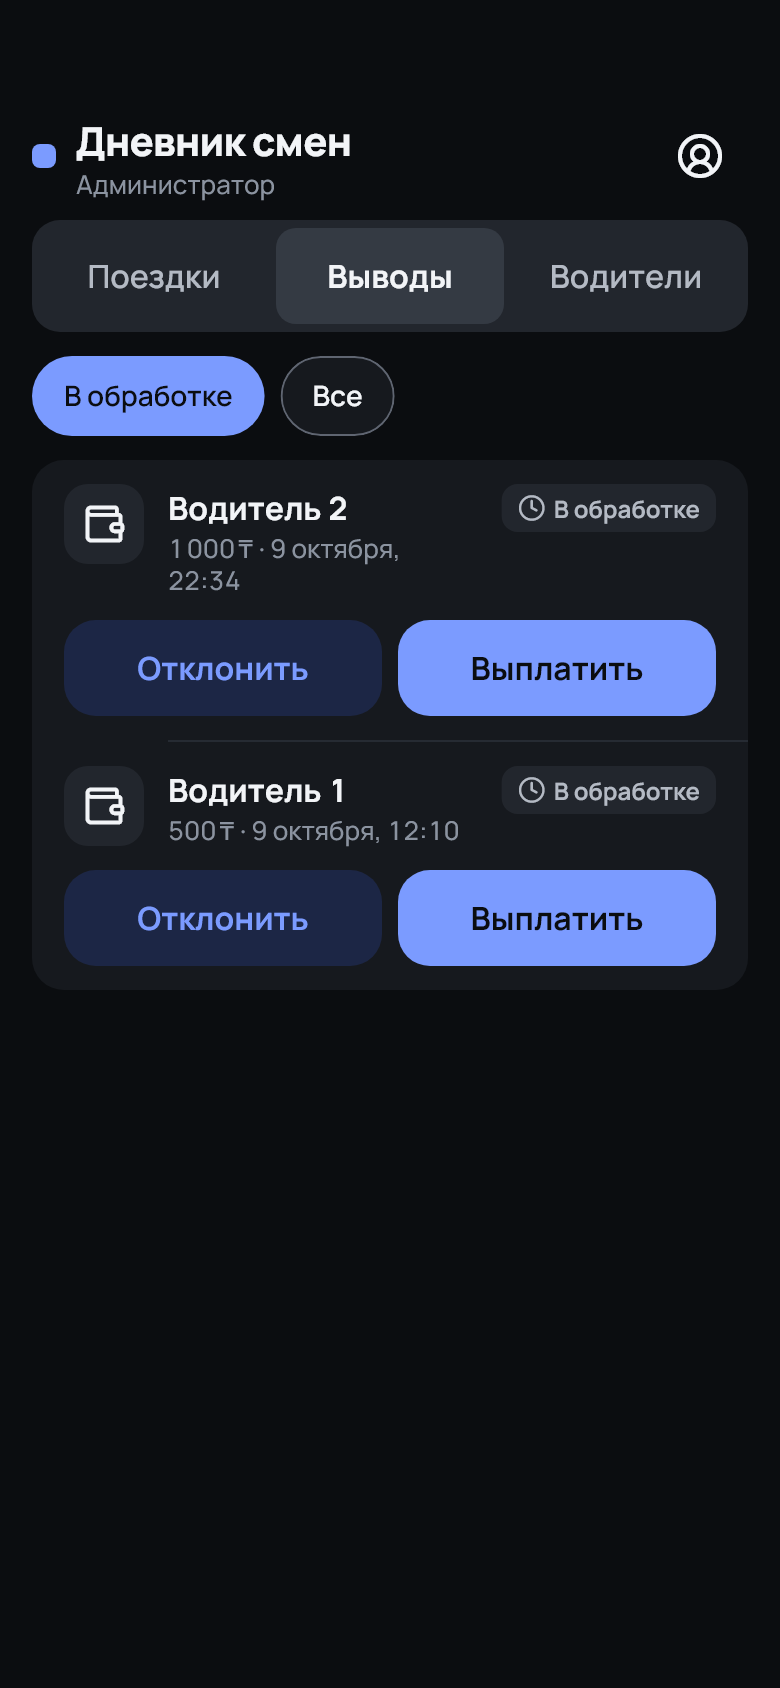
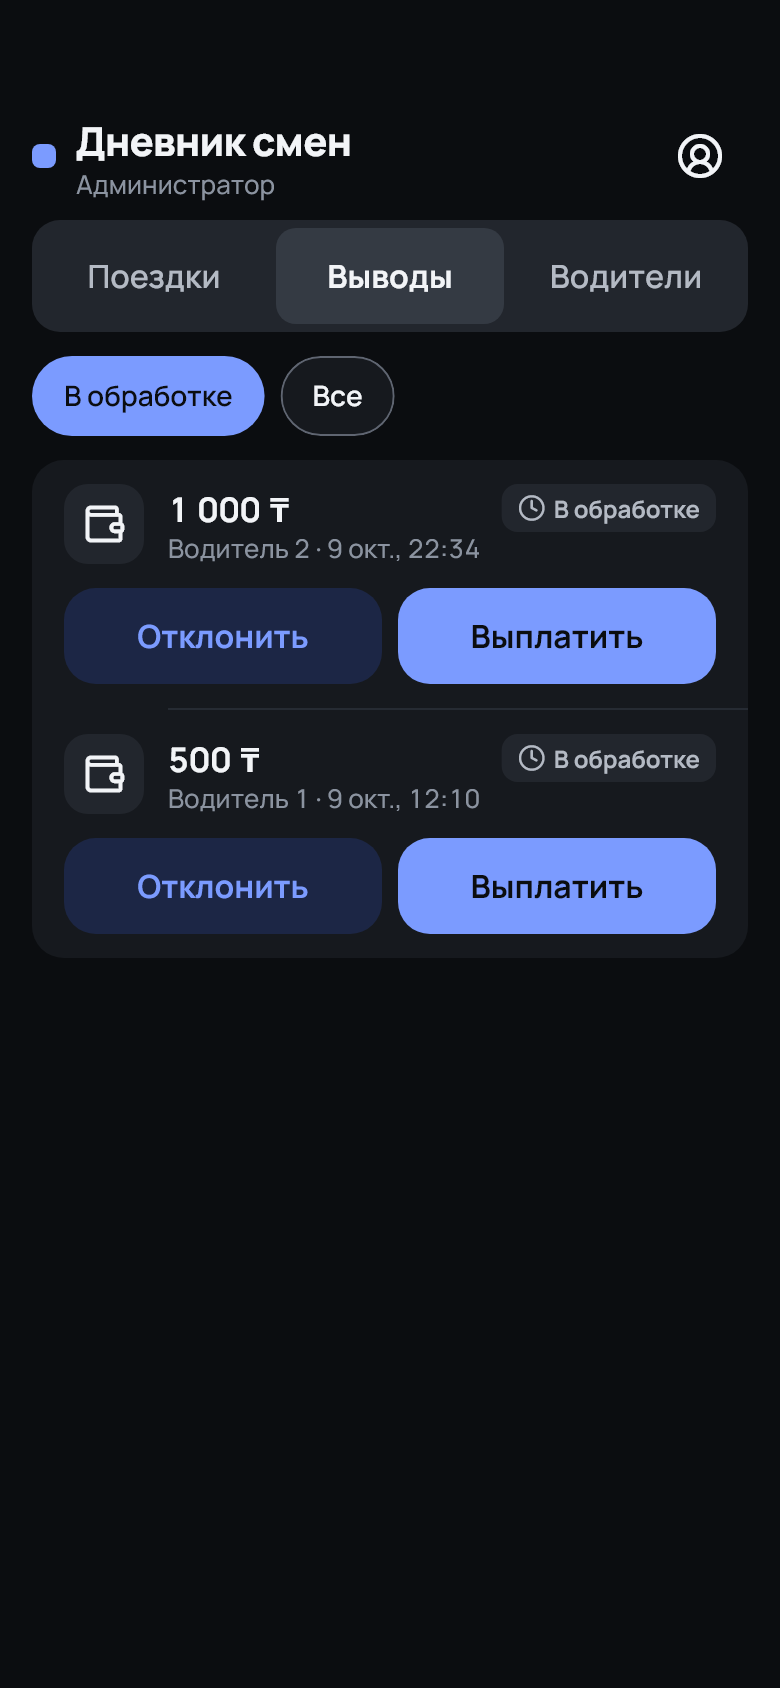
docs(design): §8.1 and §8.6 updates, refreshed admin screenshots

Changed region(s): [[0.0615, 0.2773, 0.9231, 0.5853]]

diff --git a/DESIGN.md b/DESIGN.md
@@ -457,7 +457,7 @@ Keep copy in one file (`core/l10n/strings_ru.dart` or ARB). No English strings i
 - DkFilterChips: horizontal scroll row of chips height 40 (tap area 48), radius pill, padding h 16; selected bg accent fg onAccent; unselected bg surface, border 1 border, fg textPrimary; label 14/600.
 
 ### 8.1 Login
-- bg `bg`, SafeArea, padding 16. Top-right: DkLanguageSwitch compact (width 200, height 48).
+- bg `bg`, SafeArea, padding 16. Top-right: DkLanguageSwitch (width 200, height **56** — approved: at 48 the segments would be 40, below the 48 dp tap target).
 - Centered block (max width 360): wordmark (accent square 16 + «Дневник смен» wordmark style), gap 32, title «Вход» titleL, gap 24, fields «Логин» (DkTextField, autofill username), gap 16 «Пароль» (DkPasswordField, autofill password), gap 24, DkButton primary expand «Войти» (loading «Входим…»).
 - Error: under the password field, error row «Неверный логин или пароль». Rate-limit: «Слишком много попыток. Попробуйте через 15 минут.» Offline: error snackbar «Нет связи. Проверьте интернет.»
 - Keyboard: Enter on login → focus password; Enter on password → submit.
@@ -496,8 +496,8 @@ Keep copy in one file (`core/l10n/strings_ru.dart` or ARB). No English strings i
 ### 8.6 Admin («Админка»)
 - Day-screen layout reused. Header: wordmark + caption «Администратор» + DkIconButton menu (Menu without «Вывод средств»).
 - Under the header: DkSegmentedControl with 3 segments: «Поездки» / «Выводы» / «Водители».
-- Поездки: DkFilterChips «Все водители», «Водитель 1», «Водитель 2» (from /admin/users) → DkDaySwitcher → summary card + payment card + trip list for the selection. In «Все водители» each trip row's meta line is «22 мин · Карта · Водитель 1». No FAB (admin does not create trips).
-- Выводы: DkFilterChips «В обработке», «Все»; list rows: driver name, amount, date, status chip; pending rows have two buttons under the row content: DkButton secondary «Отклонить» and primary «Выплатить» (each 48 high, side by side). Reject opens a dialog with a text field «Причина» (required). Approve → no dialog, button loading then row updates; success snackbar «Отмечено как выплачено».
+- Поездки: DkFilterChips «Все водители», «Водитель 1», «Водитель 2» (from /admin/users) → DkDaySwitcher → summary card + payment card + trip list for the selection. In «Все водители» each trip row keeps its meta line «22 мин · Карта» and gets the driver's name on its own **third line** (`caption`, textTertiary, one line, ellipsis) — same size in every row, never shrunk to fit (`DkTripTile(driver: …)`). No FAB (admin does not create trips).
+- Выводы: DkFilterChips «В обработке», «Все»; list rows (`DkWithdrawalTile(prominent: true)`): title = amount (`moneyM`, `DkMoneyText`), subtitle = «Водитель 2 · 9 окт., 22:34» (`caption`, one line), status chip on the right; no reject reason in the admin list, so every row's content block has the same height (and every row with buttons too) at 360 and 390 dp, text 1.0 — tested; pending rows have two buttons under the row content: DkButton secondary «Отклонить» and primary «Выплатить» (each 48 high, side by side). Reject opens a dialog with a text field «Причина» (required). Approve → no dialog, button loading then row updates; success snackbar «Отмечено как выплачено».
 - Водители: DkListGroup rows: display name, «@user_1», trailing balance moneyM; row tap → bottom sheet with actions: «Заблокировать» / «Разблокировать» (is_active), «Сбросить все сессии» (confirm dialog «Водитель выйдет на всех устройствах»).
 - Empty / error / loading states reuse DkEmptyState, DkErrorState, DkSkeleton.
 
@@ -513,8 +513,9 @@ Components live in `packages/design_kit/lib/src/components/dk_accounts.dart` unl
 | DkIconButton | `DkIconButton(icon, label, onPressed, active)` in `dk_chrome.dart`; icon 24 (`iconNav`); `active` draws the icon in `accent` (the sort button). |
 | DkListGroup + DkListRow | `DkListGroup(children)` inserts the inset-68 dividers; `DkListAttachment(child)` sits under the row above it without a divider (the language switch under «Язык»). `DkListRow(title, icon, subtitle, trailing, onTap, destructive)` — a chevron when tappable and no trailing. |
 | DkStatusChip | `DkStatusChip(kind: DkStatusKind.pending/paid/rejected, label)`. |
+| Money in any text | Every amount is built by `DkMoney.format` (U+202F before ₸ and between groups, U+2212 minus) and drawn by `DkMoneyText` / `DkGroupedText`, which widen the gap; a plain `Text` draws U+202F too narrow. Kit texts that can carry an amount (list rows, dialog title and message, snackbars, sheet titles, info line, withdrawal rows) render through `DkGroupedText`. `example/test/accounts_screens_test.dart` fails on any rendered «₸» without U+202F before it, a hyphen minus, or a narrow gap. |
 | DkPasswordField | `DkPasswordField(label, controller, showLabel, hideLabel, …)`; `DkTextField` gained `obscureText`, `autofillHints`, `onSubmitted`, and its `trailing` is now a separate semantics node (otherwise the eye button merged into the field and was unreachable for screen readers). |
-| DkLanguageSwitch | `DkLanguageSwitch(languages: [(code, name)], selected, onChanged)`. **Deviation (pending approval):** always 56 high, also on the login screen — a 48-high track (§8.1 "compact") leaves 40-high segments, below the 48 dp tap target of §1. The login switch keeps width 200. |
+| DkLanguageSwitch | `DkLanguageSwitch(languages: [(code, name)], selected, onChanged)`. **Approved deviation:** always 56 high, also on the login screen — a 48-high track (§8.1 "compact") leaves 40-high segments, below the 48 dp tap target of §1. The login switch keeps width 200. |
 | DkFilterChips | `DkFilterChips<T>(options: [(value, label)], selected, onChanged)`. |
 
 Also added for §8.3–8.6:

diff --git a/packages/design_kit/DESIGN.md b/packages/design_kit/DESIGN.md
@@ -457,7 +457,7 @@ Keep copy in one file (`core/l10n/strings_ru.dart` or ARB). No English strings i
 - DkFilterChips: horizontal scroll row of chips height 40 (tap area 48), radius pill, padding h 16; selected bg accent fg onAccent; unselected bg surface, border 1 border, fg textPrimary; label 14/600.
 
 ### 8.1 Login
-- bg `bg`, SafeArea, padding 16. Top-right: DkLanguageSwitch compact (width 200, height 48).
+- bg `bg`, SafeArea, padding 16. Top-right: DkLanguageSwitch (width 200, height **56** — approved: at 48 the segments would be 40, below the 48 dp tap target).
 - Centered block (max width 360): wordmark (accent square 16 + «Дневник смен» wordmark style), gap 32, title «Вход» titleL, gap 24, fields «Логин» (DkTextField, autofill username), gap 16 «Пароль» (DkPasswordField, autofill password), gap 24, DkButton primary expand «Войти» (loading «Входим…»).
 - Error: under the password field, error row «Неверный логин или пароль». Rate-limit: «Слишком много попыток. Попробуйте через 15 минут.» Offline: error snackbar «Нет связи. Проверьте интернет.»
 - Keyboard: Enter on login → focus password; Enter on password → submit.
@@ -496,8 +496,8 @@ Keep copy in one file (`core/l10n/strings_ru.dart` or ARB). No English strings i
 ### 8.6 Admin («Админка»)
 - Day-screen layout reused. Header: wordmark + caption «Администратор» + DkIconButton menu (Menu without «Вывод средств»).
 - Under the header: DkSegmentedControl with 3 segments: «Поездки» / «Выводы» / «Водители».
-- Поездки: DkFilterChips «Все водители», «Водитель 1», «Водитель 2» (from /admin/users) → DkDaySwitcher → summary card + payment card + trip list for the selection. In «Все водители» each trip row's meta line is «22 мин · Карта · Водитель 1». No FAB (admin does not create trips).
-- Выводы: DkFilterChips «В обработке», «Все»; list rows: driver name, amount, date, status chip; pending rows have two buttons under the row content: DkButton secondary «Отклонить» and primary «Выплатить» (each 48 high, side by side). Reject opens a dialog with a text field «Причина» (required). Approve → no dialog, button loading then row updates; success snackbar «Отмечено как выплачено».
+- Поездки: DkFilterChips «Все водители», «Водитель 1», «Водитель 2» (from /admin/users) → DkDaySwitcher → summary card + payment card + trip list for the selection. In «Все водители» each trip row keeps its meta line «22 мин · Карта» and gets the driver's name on its own **third line** (`caption`, textTertiary, one line, ellipsis) — same size in every row, never shrunk to fit (`DkTripTile(driver: …)`). No FAB (admin does not create trips).
+- Выводы: DkFilterChips «В обработке», «Все»; list rows (`DkWithdrawalTile(prominent: true)`): title = amount (`moneyM`, `DkMoneyText`), subtitle = «Водитель 2 · 9 окт., 22:34» (`caption`, one line), status chip on the right; no reject reason in the admin list, so every row's content block has the same height (and every row with buttons too) at 360 and 390 dp, text 1.0 — tested; pending rows have two buttons under the row content: DkButton secondary «Отклонить» and primary «Выплатить» (each 48 high, side by side). Reject opens a dialog with a text field «Причина» (required). Approve → no dialog, button loading then row updates; success snackbar «Отмечено как выплачено».
 - Водители: DkListGroup rows: display name, «@user_1», trailing balance moneyM; row tap → bottom sheet with actions: «Заблокировать» / «Разблокировать» (is_active), «Сбросить все сессии» (confirm dialog «Водитель выйдет на всех устройствах»).
 - Empty / error / loading states reuse DkEmptyState, DkErrorState, DkSkeleton.
 
@@ -513,8 +513,9 @@ Components live in `packages/design_kit/lib/src/components/dk_accounts.dart` unl
 | DkIconButton | `DkIconButton(icon, label, onPressed, active)` in `dk_chrome.dart`; icon 24 (`iconNav`); `active` draws the icon in `accent` (the sort button). |
 | DkListGroup + DkListRow | `DkListGroup(children)` inserts the inset-68 dividers; `DkListAttachment(child)` sits under the row above it without a divider (the language switch under «Язык»). `DkListRow(title, icon, subtitle, trailing, onTap, destructive)` — a chevron when tappable and no trailing. |
 | DkStatusChip | `DkStatusChip(kind: DkStatusKind.pending/paid/rejected, label)`. |
+| Money in any text | Every amount is built by `DkMoney.format` (U+202F before ₸ and between groups, U+2212 minus) and drawn by `DkMoneyText` / `DkGroupedText`, which widen the gap; a plain `Text` draws U+202F too narrow. Kit texts that can carry an amount (list rows, dialog title and message, snackbars, sheet titles, info line, withdrawal rows) render through `DkGroupedText`. `example/test/accounts_screens_test.dart` fails on any rendered «₸» without U+202F before it, a hyphen minus, or a narrow gap. |
 | DkPasswordField | `DkPasswordField(label, controller, showLabel, hideLabel, …)`; `DkTextField` gained `obscureText`, `autofillHints`, `onSubmitted`, and its `trailing` is now a separate semantics node (otherwise the eye button merged into the field and was unreachable for screen readers). |
-| DkLanguageSwitch | `DkLanguageSwitch(languages: [(code, name)], selected, onChanged)`. **Deviation (pending approval):** always 56 high, also on the login screen — a 48-high track (§8.1 "compact") leaves 40-high segments, below the 48 dp tap target of §1. The login switch keeps width 200. |
+| DkLanguageSwitch | `DkLanguageSwitch(languages: [(code, name)], selected, onChanged)`. **Approved deviation:** always 56 high, also on the login screen — a 48-high track (§8.1 "compact") leaves 40-high segments, below the 48 dp tap target of §1. The login switch keeps width 200. |
 | DkFilterChips | `DkFilterChips<T>(options: [(value, label)], selected, onChanged)`. |
 
 Also added for §8.3–8.6:
